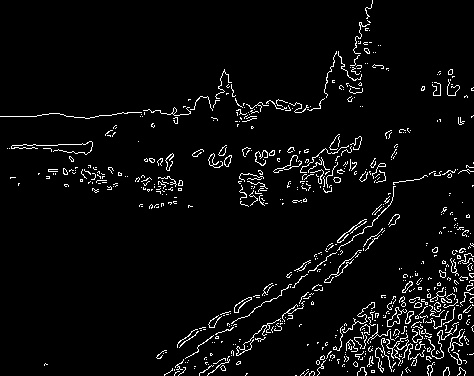
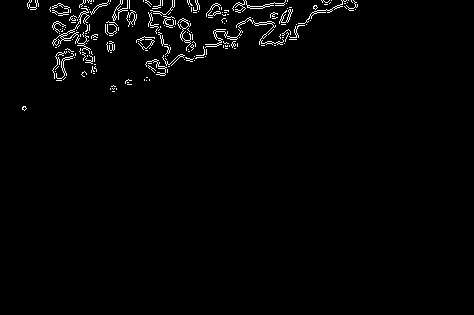
Add files via upload

diff --git a/Final Code.py b/Final Code.py
@@ -1,0 +1,113 @@
+import cv2
+import numpy as np
+import matplotlib.pyplot as plt
+import threading
+from sklearn.cluster import KMeans
+import time
+import os
+
+#Change string to absolute directory on your machine
+os.chdir(r'C:\Users\kille\Desktop\UMBC\Junior Year\CMSC 483\CMSC 483 Project')
+
+#Implements edge detection algorithm (Canny Algorithm)
+def detectShoreline(image, imageID):
+  #Get Edges and display
+  edges = cv2.Canny(image, 2, 5)  
+  cv2.waitKey(0)
+  
+  #Save images to direcrtory
+  cv2.imwrite("Edge images/"+str(imageID)+'.jpg', edges)
+
+#Preprocesses image for land-water classification and KMeans clustering
+#Returns a binary mask of the image
+def preprocessing(img, imageID, doKMeans = False):
+  if(doKMeans):
+    #Blur to reduce noise
+    img = cv2.GaussianBlur(img, (3,3), 0)
+    rows, cols, rgb = img.shape
+    
+    #For training ML model
+    reshaped_img = img.reshape(rows*cols, 3)
+    
+    #Making binary np array of coastline
+    kmeans = KMeans(2)
+    kmeans.fit(reshaped_img)
+    binary_mask = kmeans.predict(reshaped_img)
+    
+    binary_mask = binary_mask.reshape(rows, cols)
+    
+    #Convert numpy array to 8-bit for Canny Edge Detection
+    binary_mask = np.uint8(binary_mask)
+    
+    #Get Edges and display
+    edges = cv2.Canny(binary_mask, 2, 5)
+    
+    detectShoreline(edges, imageID)
+    
+  else:
+    #Blur to reduce noise
+    test = cv2.GaussianBlur(img, (13,13), 0)
+    #Water in the data set is mostly gray value 28, 45 reduces noise
+    ret, test = cv2.threshold(test, 28, 255, cv2.THRESH_BINARY_INV)
+
+    test_edges = cv2.Canny(test, 2, 5)
+    
+    detectShoreline(test_edges, imageID)
+
+
+#Load in all images in directory
+images = [] #List for all images to be read
+images_ID = []
+count = 0
+
+for imagePath in os.listdir('images'):
+  images.append(cv2.imread('images/'+imagePath, cv2.COLOR_BGR2RGB))
+  images_ID.append(count)
+  count += 1
+
+#Begin Serial preprocessing and shoreline detection
+def serial():
+  startTime = time.time()
+  for i in range(len(images)):
+    preprocessing(images[i], i)
+  endTime = time.time()
+  print('Serial Execution Time:', endTime - startTime)
+
+#Begin Parallel Execution
+iterable = [(images[i], i) for i in range(len(images))]
+
+#Works with code snippet below to parallelize serial version
+def parallelize(images_subset, image_ID):
+  for i in range(len(images_subset)):
+    preprocessing(images_subset[i], image_ID[i])
+
+#Parallel method
+def alternateParallel():
+  num_threads = 16 #Change number of threads in parallel execution
+  interval = int(len(iterable)/num_threads) #Size of grouping for each processor
+  threads = []
+
+  #Error Case
+  if num_threads > len(images):
+    num_threads = len(images)
+    interval = 1
+
+  #Partition Data
+  for i in range(num_threads):
+    if ((i + 1) * interval) >= len(images):
+      threads.append(threading.Thread(target=parallelize, args=(images[i*interval:], images_ID[i*interval:])))
+      #break
+    else:
+      threads.append(threading.Thread(target=parallelize, args=(images[i*interval:(i + 1)*interval], images_ID[i*interval:(i + 1)*interval])))
+
+  startTime = time.time()
+  for t in threads:
+    t.start()
+  for t in threads:
+    t.join()
+  endTime = time.time()
+  print('Alt Parallel Algo Time: ', endTime - startTime)
+
+serial()
+#originalParallel()
+alternateParallel()

diff --git a/Parallel.py b/Parallel.py
@@ -11,7 +11,7 @@ import multiprocessing
 def preprocessing():
     #some images to try, the threshold is only designed for the satellite data (not the thumbnail)
     #img = cv2.imread('download (2).jpg', cv2.IMREAD_GRAYSCALE) 
-    img = cv2.imread('images/LC08/LC08_L2SP_022029_20130329_20200912_02_T1_SR_B5.jpg', cv2.IMREAD_GRAYSCALE)
+    img = cv2.imread('images/LC08_L2SP_022029_20130329_20200912_02_T1_SR_B5.jpg', cv2.IMREAD_GRAYSCALE)
     #img = cv2.imread('LC08_L2SP_022029_20130329_20200912_02_T1_SR_B5_quart.jpg', cv2.IMREAD_GRAYSCALE) #quarter size
     #img = cv2.imread('LC08_L2SP_022029_20130329_20200912_02_T1_thumb_large.jpeg', cv2.IMREAD_GRAYSCALE) #colored 
   

diff --git a/Project.py b/Project.py
@@ -7,11 +7,11 @@ from sklearn.cluster import KMeans
 import time
 import os
 
+os.chdir(r'C:\Users\kille\Desktop\UMBC\Junior Year\CMSC 483\CMSC 483 Project')
+
 #Preprocesses image for land-water classification and KMeans clustering
 #Returns a binary mask of the image
 def preprocessing(img, imageID):
-  print(imageID)
-
   #Blur and alter shape for ML model
   #To avoid overfitting and have proper format for training
   img = cv2.GaussianBlur(img, (3,3), 0)
